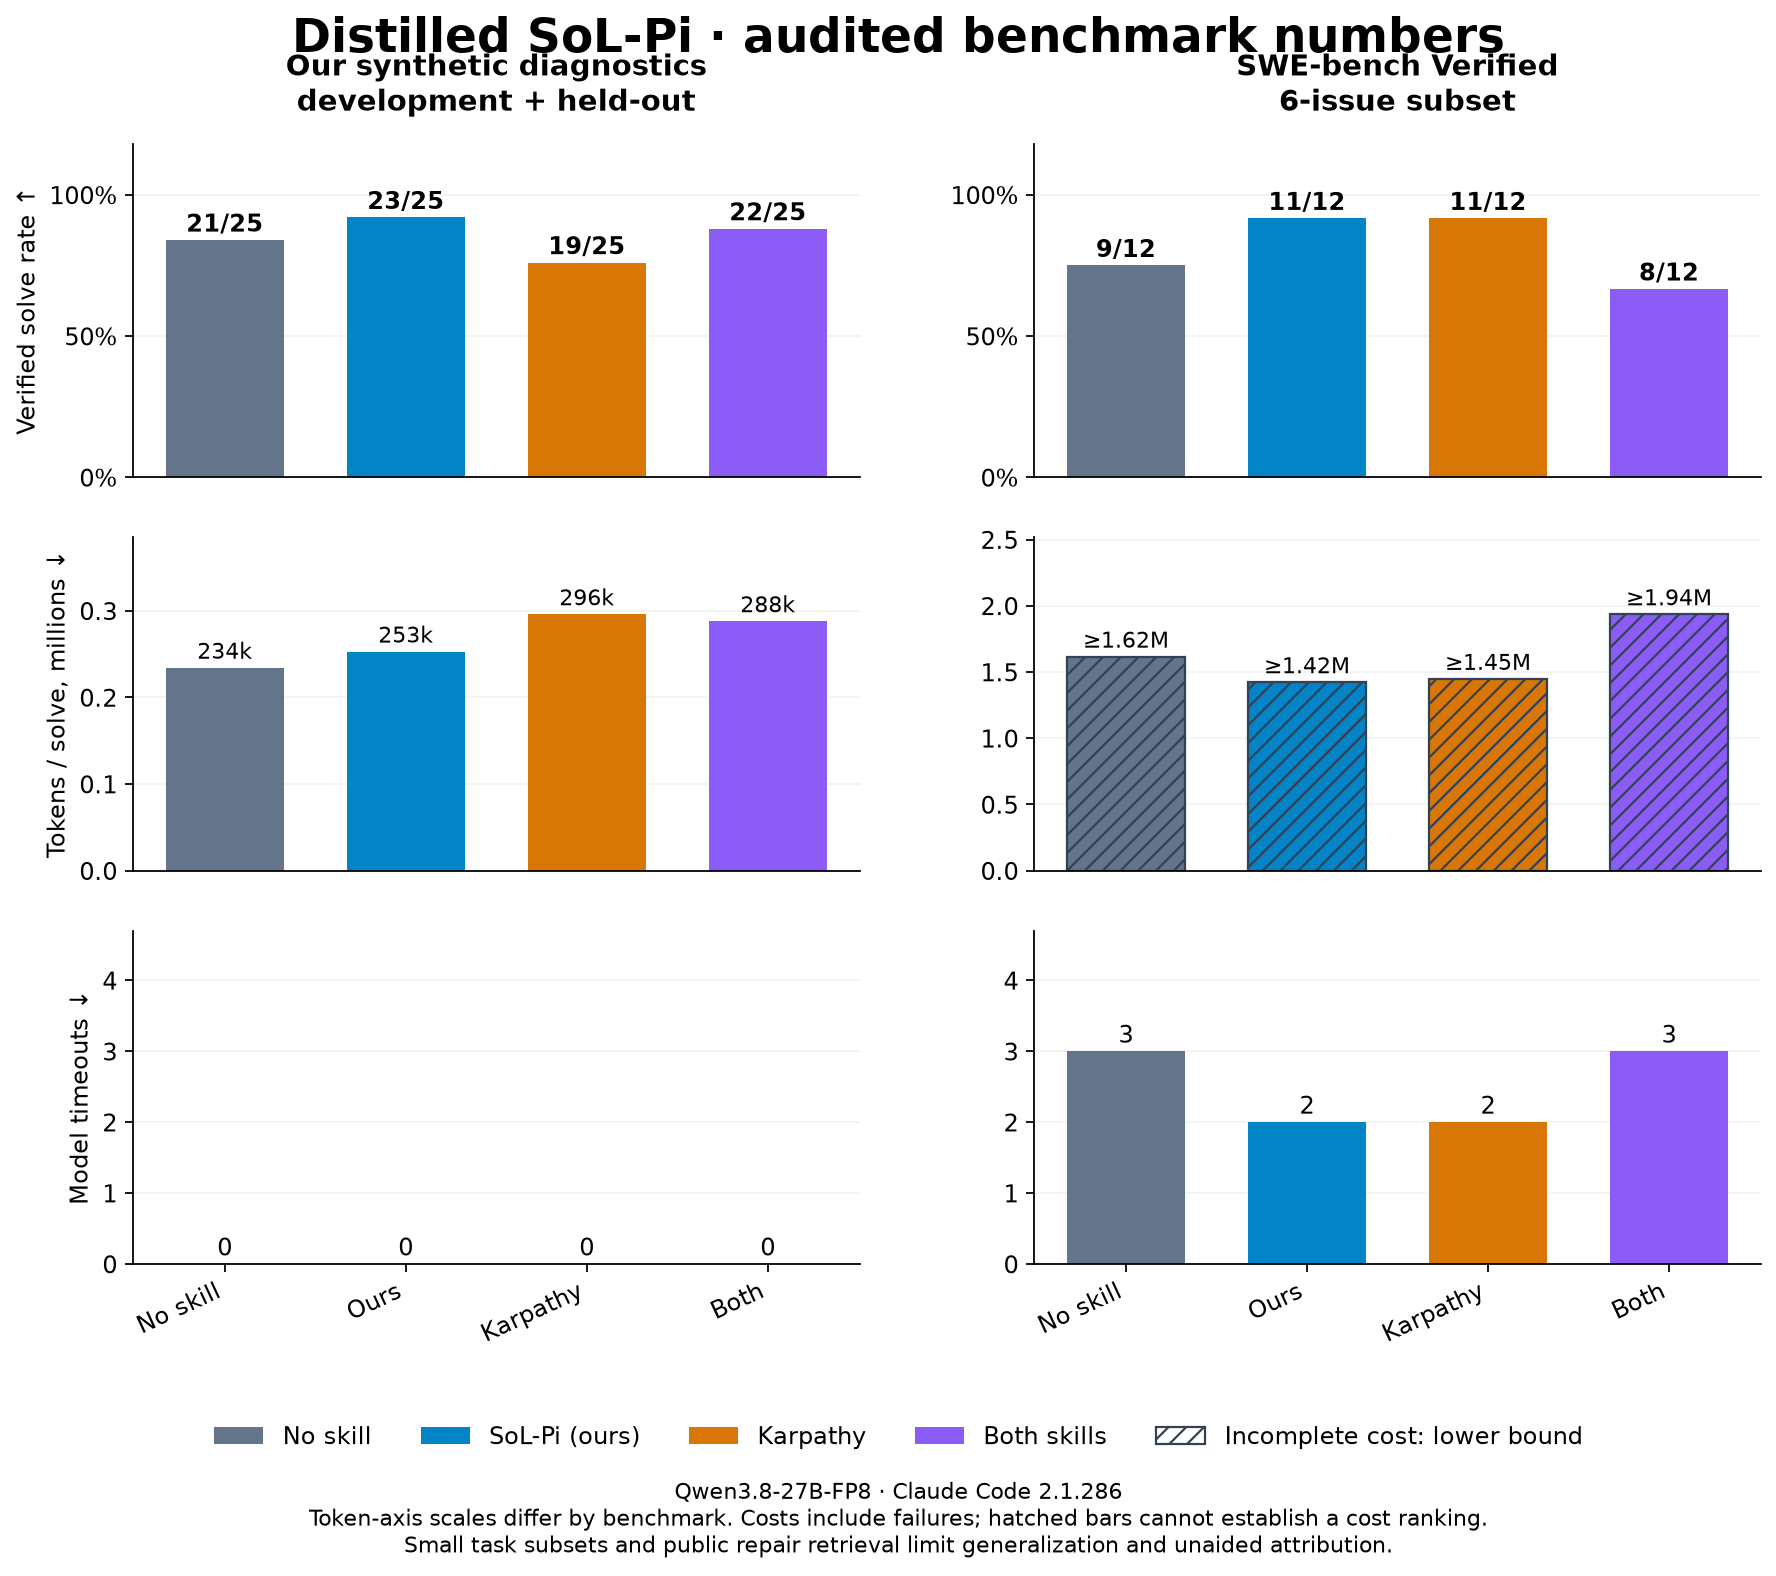
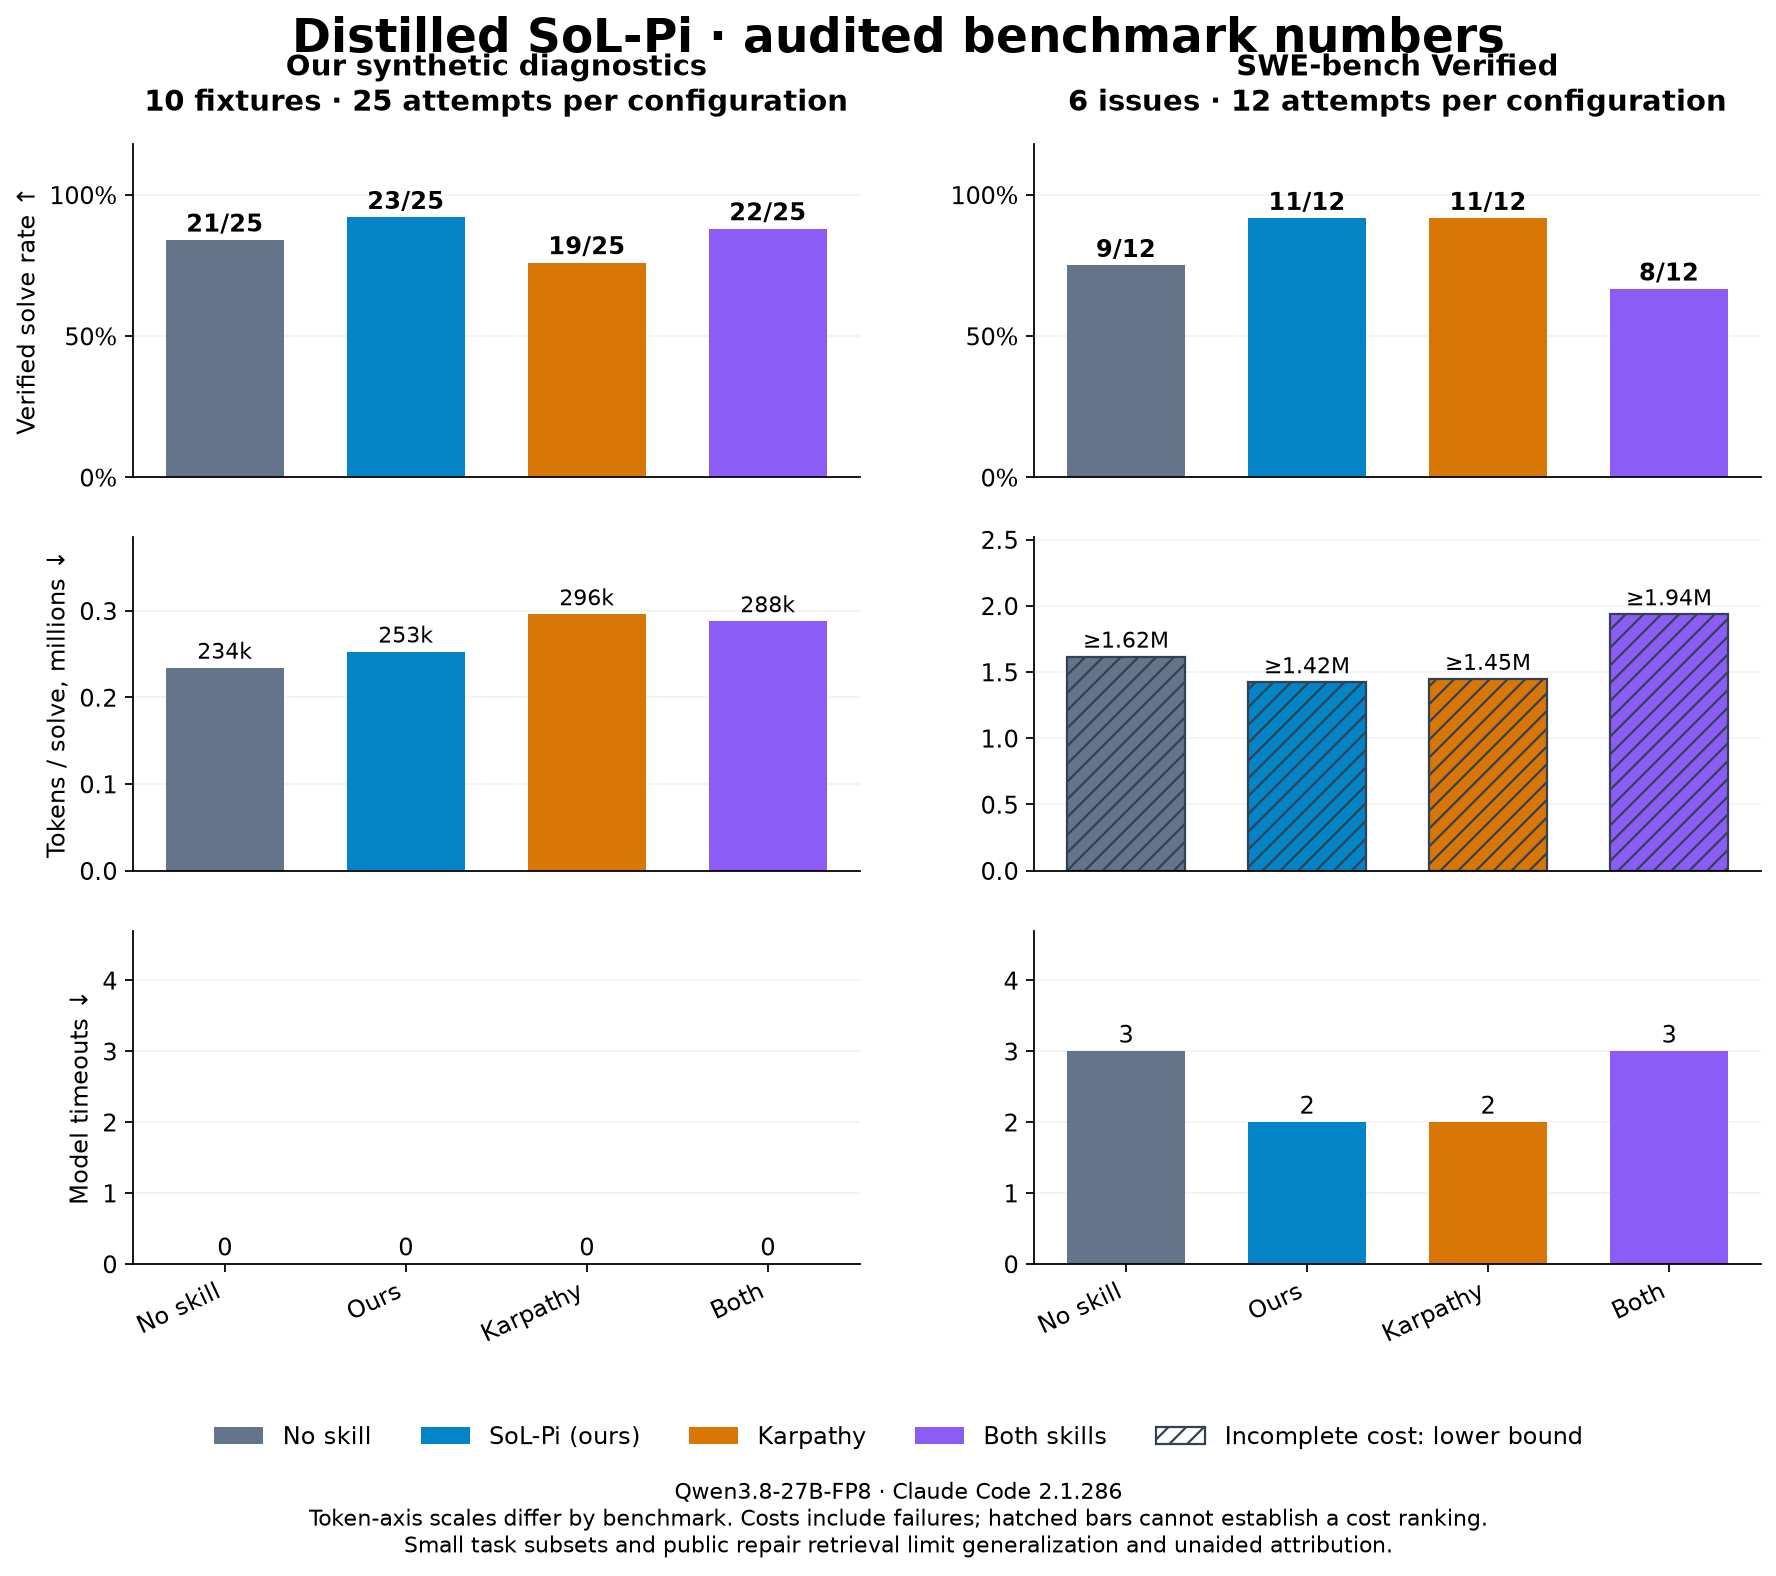
Clarify unique tasks and repeated attempts in benchmark plot

Changed region(s): [[0.0929, 0.0311, 0.4645, 0.0933], [0.7123, 0.0622, 0.96, 0.0933], [0.6194, 0.0622, 0.6813, 0.0933]]

diff --git a/tests/scripts/plot_numbers.py b/tests/scripts/plot_numbers.py
@@ -29,7 +29,7 @@ for arm in ['baseline','latest','karpathy','karpathy_latest']:
     synthetic['arms'][arm] = {'n': a['n'] + b['n'], 'solved': solved,
         'tokens_per_solve': total / solved, 'usage_complete': a['usage_complete'] and b['usage_complete'],
         'timeouts': a['timeouts'] + b['timeouts']}
-stages = [('Our synthetic diagnostics\ndevelopment + held-out',synthetic),('SWE-bench Verified\n6-issue subset',combined)]
+stages = [('Our synthetic diagnostics\n10 fixtures · 25 attempts per configuration',synthetic),('SWE-bench Verified\n6 issues · 12 attempts per configuration',combined)]
 arms = ['baseline','latest','karpathy','karpathy_latest']
 labels = ['No skill','SoL-Pi (ours)','Karpathy','Both skills']
 colors = ['#64748b','#0284c7','#d97706','#8b5cf6']

diff --git a/README.md b/README.md
@@ -12,7 +12,7 @@ A portable `efficient-coding` skill inspired by [NVlabs/SoL-Pi](https://github.c
 
 [PNG download](assets/benchmark-numbers.png) · [Reproduce the plot](tests/scripts/plot_numbers.py). Hatched cost bars are incomplete lower bounds; token-axis scales differ by benchmark.
 
-| Benchmark | Configuration | Solves ↑ | Tokens / solve ↓ | Timeouts ↓ |
+| Benchmark | Configuration | Solved attempts ↑ | Tokens / solve ↓ | Timeouts ↓ |
 |---|---|---:|---:|---:|
 | Our synthetic diagnostics | No skill (baseline) | 21/25 | 234k | 0 |
 | Our synthetic diagnostics | SoL-Pi (ours) | 23/25 | 253k | 0 |
@@ -22,6 +22,8 @@ A portable `efficient-coding` skill inspired by [NVlabs/SoL-Pi](https://github.c
 | SWE-bench Verified | SoL-Pi (ours) | 11/12 | ≥1.42M | 2 |
 | SWE-bench Verified | Karpathy | 11/12 | ≥1.45M | 2 |
 | SWE-bench Verified | Both skills | 8/12 | ≥1.94M | 3 |
+
+**Sample sizes:** SWE-bench Verified has **6 unique issues × 2 rounds = 12 attempts per configuration**. Our synthetic diagnostics have **10 fixtures**: 5 development × 2 rounds + 5 held-out × 3 rounds = **25 attempts per configuration**. Fractions in the table and plot count solved attempts, not unique tasks.
 
 **Ours** is the latest shipped revision. **Both skills** loads Karpathy and ours separately. Tokens include failed attempts; `k` = thousand, `M` = million, `≥` = incomplete lower bound. Unmeasured or unverified items are marked **TBD**.
 
@@ -34,7 +36,7 @@ Ours ties Karpathy at 11/12 SWE-bench Verified solves; baseline is cheaper on ou
 
 The original entrypoint was 6,573 bytes; ours is the 2,584-byte revision. These earlier measurements use different tasks and Claude Code 2.1.285 and are not pooled above.
 
-| Benchmark | Configuration | Solves ↑ | Tokens / solve ↓ |
+| Benchmark | Configuration | Solved attempts ↑ | Tokens / solve ↓ |
 |---|---|---:|---:|
 | Stress suite | No skill | 15/15 | 194k |
 | Stress suite | Original SoL-Pi (ours) | 15/15 | 209k |
